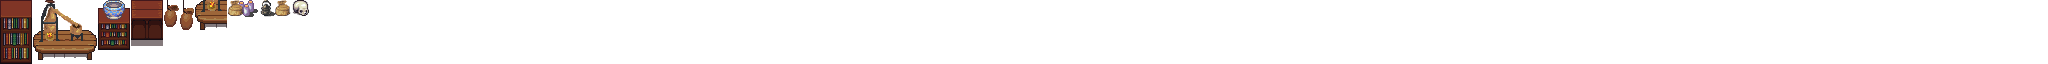
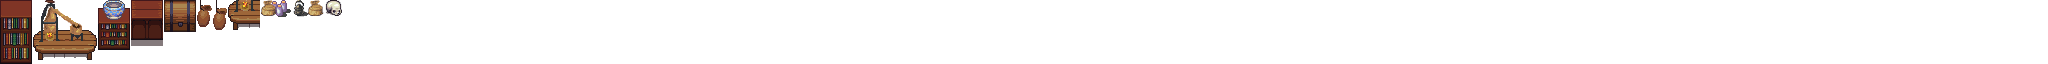
Sync from private repo

Changed region(s): [[0.0625, 0.0, 0.1875, 0.5]]

diff --git a/client/tests/e2e/gear.spec.js b/client/tests/e2e/gear.spec.js
@@ -43,7 +43,27 @@ async function intoShop(page, room, keeper) {
         const gs = window.__PHASER_GAME.scene.getScene('GameScene');
         gs.scene.get('UIScene').talkTo(gs.town.folk.find(f => f.plan.id === keeper));
     }, keeper);
+    await talkThrough(page, 'yes');
     await expect(page.locator('.gear-panel--shop')).toBeVisible();
+}
+
+/** Hear someone out, answering their question `answer`; returns everything they said. */
+async function talkThrough(page, answer) {
+    const said = [];
+    for (let i = 0; i < 40; i++) {
+        const state = await page.evaluate((answer) => {
+            const d = window.__PHASER_GAME.scene.getScene('UIScene').dialogue;
+            if (!d.visible) return null;
+            const p = d.pages[d.page];
+            if (p.ask && !p.answer && !d._typing) d.choose(answer);
+            else d.advance();
+            return p.text;
+        }, answer);
+        if (state === null) break;
+        if (said.at(-1) !== state) said.push(state);
+        await page.waitForTimeout(60);
+    }
+    return said;
 }
 
 const inv = (page) => page.evaluate(() => {
@@ -201,9 +221,104 @@ test.describe('Gear', () => {
         await expect.poll(() => page.evaluate(() => window.__PHASER_GAME.scene.getScene('UIScene').inventory.equipped.weapon), { timeout: 30000 }).toBe('spear');
         const after = await page.evaluate(() => window.__PHASER_GAME.scene.getScene('UIScene').inventory.stats);
         expect(after.attack).toBe(7 + Math.floor(after.attributes.str / 4));
+        // A shield then: the spear takes both hands, and you're told so
+        await page.evaluate(async () => {
+            const inv = window.__PHASER_GAME.scene.getScene('UIScene').inventory;
+            inv.buy('wooden-shield');
+        });
+        await page.locator('.gear-close').click();
+        await page.evaluate(() => window.__PHASER_GAME.scene.getScene('UIScene').bottomControls.switchTab('items'));
+        await page.locator('.gear-row[data-item="wooden-shield"]').click();
+        await page.locator('.gear-detail .gear-btn--go').click();
+        await expect(page.locator('.gear-notice')).toHaveText("Wearing: Wooden shield. Your spear takes both hands, so it's in your bag.", { timeout: 30000 });
+        expect(await page.evaluate(() => window.__PHASER_GAME.scene.getScene('UIScene').inventory.equipped.weapon)).toBeUndefined();
+        const shielded = await page.evaluate(() => window.__PHASER_GAME.scene.getScene('UIScene').inventory.stats);
         await page.locator('.gear-close').click();
         await page.evaluate(() => window.__PHASER_GAME.scene.getScene('UIScene').bottomControls.switchTab('stats'));
-        await expect(page.locator('.gear-power-tile[data-power="attack"] .gear-power-value')).toHaveText(String(after.attack));
+        await expect(page.locator('.gear-power-tile[data-power="attack"] .gear-power-value')).toHaveText(String(shielded.attack));
+        expect(shielded.defence).toBe(after.defence + 1);
+    });
+
+    test("a robed cleric with a spear stays in sight when they attack (robes can't thrust)", async ({ page }) => {
+        test.setTimeout(150000);
+        await page.goto('/');
+        await page.waitForFunction(() => {
+            const s = window.__PHASER_GAME?.scene.getScene('CreateScene');
+            return s?.figure?.visible && !s._inFlight;
+        }, null, { timeout: 60000 });
+        // A human woman cleric: her robe has no thrust frames
+        await page.evaluate(() => {
+            const s = window.__PHASER_GAME.scene.getScene('CreateScene');
+            s._changeIdentity(() => { s.state.pickBodyType('female'); s.state.pickKind('human'); s.state.pickClass('cleric'); });
+        });
+        await page.waitForFunction(() => {
+            const s = window.__PHASER_GAME.scene.getScene('CreateScene');
+            return !s._inFlight && s.state.current('character_class') === 'cleric';
+        }, null, { timeout: 60000 });
+        await page.locator('#cc-play').click();
+        await page.waitForFunction(() => window.__PHASER_GAME.scene.getScene('UIScene')?.inventory, null, { timeout: 30000 });
+        await page.evaluate(async () => {
+            const inv = window.__PHASER_GAME.scene.getScene('UIScene').inventory;
+            inv.buy('spear');
+            await inv.equip('spear');
+        });
+        await page.waitForFunction(() => window.__PHASER_GAME.scene.getScene('GameScene').localPlayer.characterData.selections.some(l => l.item === 'weapon_polearm_spear')
+            && window.__PHASER_GAME.scene.getScene('GameScene').localPlayer.sprite.spriteMeta, null, { timeout: 30000 });
+        expect(await page.evaluate(() => window.__PHASER_GAME.scene.getScene('GameScene').localPlayer.characterData.selections.some(l => l.item === 'torso_clothes_robe'))).toBe(true);
+        await page.waitForTimeout(1500);
+        await page.evaluate(() => window.__PHASER_GAME.scene.getScene('UIScene').handleAttack());
+        // Mid-attack, the frame she's drawn with has her in it
+        const seen = [];
+        for (let i = 0; i < 4; i++) {
+            await page.waitForTimeout(80);
+            seen.push(await page.evaluate(() => {
+                const a = window.__PHASER_GAME.scene.getScene('GameScene').localPlayer.sprite.getActiveSprite();
+                const f = a.frame, img = f.source.image;
+                const cv = document.createElement('canvas');
+                cv.width = f.cutWidth; cv.height = f.cutHeight;
+                const ctx = cv.getContext('2d');
+                ctx.drawImage(img, f.cutX, f.cutY, f.cutWidth, f.cutHeight, 0, 0, f.cutWidth, f.cutHeight);
+                const d = ctx.getImageData(0, 0, f.cutWidth, f.cutHeight).data;
+                let n = 0;
+                for (let k = 3; k < d.length; k += 4) if (d[k] > 0) n++;
+                return { anim: a.anims.currentAnim?.key.split('_').slice(-2, -1)[0], visible: a.visible, pixels: n };
+            }));
+        }
+        for (const s of seen) expect(s.pixels, JSON.stringify(seen)).toBeGreaterThan(200);
+        expect(seen.some(s => s.anim !== 'idle'), JSON.stringify(seen)).toBe(true);      // and she does attack
+    });
+
+    test('a shopkeeper has their say and asks first: No leaves you be, Yes opens the shop', async ({ page }) => {
+        test.setTimeout(120000);
+        await enterWorld(page);
+        await page.waitForFunction(() => window.__PHASER_GAME.scene.getScene('UIScene').inventory, null, { timeout: 20000 });
+        await page.evaluate(async () => {
+            const gs = window.__PHASER_GAME.scene.getScene('GameScene');
+            gs._townPlace = { name: 'Riverhold', x: 6320, y: 11116 };
+            await gs._loadTown('riverhold-armour');
+            await gs.changeMap('riverhold-armour', gs.cache.json.get('town-riverhold-armour').arrive, 'up');
+        });
+        await expect.poll(() => page.evaluate(() => !!window.__PHASER_GAME.scene.getScene('GameScene').town?.folk.find(f => f.plan.id === 'armourer')),
+            { timeout: 20000 }).toBe(true);
+        const talk = () => page.evaluate(() => {
+            const gs = window.__PHASER_GAME.scene.getScene('GameScene');
+            const ui = gs.scene.get('UIScene');
+            ui._lastTalk = null;
+            ui.talkTo(gs.town.folk.find(f => f.plan.id === 'armourer'));
+        });
+        await talk();
+        await expect.poll(() => page.evaluate(() => window.__PHASER_GAME.scene.getScene('UIScene').dialogue.visible)).toBe(true);
+        await expect(page.locator('.gear-panel')).toHaveCount(0);
+        const said = await talkThrough(page, 'no');
+        expect(said[0]).toContain('Mail, plate');
+        expect(said).toContain('Shall I show you what fits?');
+        expect(said.at(-1)).toContain('chasing you');
+        await expect(page.locator('.gear-panel--shop')).toHaveCount(0);
+        // Ask again (they ask every time), and this time yes
+        await talk();
+        await talkThrough(page, 'yes');
+        await expect(page.locator('.gear-panel--shop')).toBeVisible();
+        await expect(page.locator('.gear-says')).toHaveText("Arms up. Let's see what you're made of.");
     });
 
     test('another player sees you cast a spell', async ({ browser }) => {

diff --git a/client/src/creator/StageEffects.js b/client/src/creator/StageEffects.js
@@ -1,14 +1,14 @@
 // Particles and little flourishes for the creator stage and the world: dust,
 // impacts that match what was struck (wood splinters, metal sparks, spell
 // glints; skeletons just rattle), coins that bounce and settle, damage numbers,
-// arrows and magic bolts, fireflies, and the treasure chest. Particles are small
+// arrows and magic bolts, fireflies, and the treasure chest (the LPC base set's). Particles are small
 // hand-drawn pixel sprites in the DawnBringer-32 palette the UI uses.
 
 import { audio } from '../audio/audio.js';
 
 const SPARK = 'cc-spark';
-const CHEST_CLOSED = 'cc-chest-closed';
-const CHEST_OPEN = 'cc-chest-open';
+const CHESTS = 'cc-chests';                  // 2 columns of chests; rows: shut, ajar, open
+const CHEST_FRAMES = { shut: 0, ajar: 2, open: 4 };
 
 export class StageEffects {
     /**
@@ -192,7 +192,7 @@ export class StageEffects {
     /** Drop a chest at (x, y), pop it open, burst coins. Resolves when open. */
     async chest(x, y) {
         const s = this.scene;
-        const chest = s.add.image(x, y - 90, CHEST_CLOSED).setScale(2).setOrigin(0.5, 1).setDepth(4);
+        const chest = s.add.image(x, y - 90, CHESTS, CHEST_FRAMES.shut).setScale(1.5).setOrigin(0.5, 1).setDepth(4);
         this._chest = chest;
         // Thud when it first touches down (Bounce.easeOut lands at ~36% of the tween)
         s.time.delayedCall(150, () => audio.play('chest_drop'));
@@ -202,7 +202,9 @@ export class StageEffects {
         await delay(s, 220);
         audio.play('chest_open');
         audio.play('coins');
-        chest.setTexture(CHEST_OPEN);
+        chest.setFrame(CHEST_FRAMES.ajar);
+        await delay(s, 70);
+        chest.setFrame(CHEST_FRAMES.open);
         this.coinBurst(x, y - 22, y);
         this.stars.explode(12, x, y - 22);
         const glow = s.add.ellipse(x, y - 20, 34, 14, 0xfbf236, 0.6).setDepth(3).setBlendMode('ADD');
@@ -264,7 +266,7 @@ export function tween(scene, config) {
     return new Promise(resolve => scene.tweens.add({ ...config, onComplete: resolve }));
 }
 
-/** 2×2 spark, and a pixel-art treasure chest (closed/open) in the UI palette. */
+/** A 2×2 spark. */
 function makeTextures(scene) {
     if (!scene.textures.exists(SPARK)) {
         const g = scene.make.graphics({ x: 0, y: 0 }, false);
@@ -272,37 +274,6 @@ function makeTextures(scene) {
         g.generateTexture(SPARK, 2, 2);
         g.destroy();
     }
-    if (scene.textures.exists(CHEST_CLOSED)) return;
-
-    const INK = 0x222034, WOOD = 0x8f563b, WOOD_DK = 0x663931, GOLD = 0xdad45e, GOLD_HI = 0xfbf236, DARK = 0x45283c;
-    const draw = (open) => {
-        const g = scene.make.graphics({ x: 0, y: 0 }, false);
-        const W = 22, H = 20;
-        // body
-        g.fillStyle(INK).fillRect(1, 9, 20, 11);
-        g.fillStyle(WOOD).fillRect(2, 10, 18, 9);
-        g.fillStyle(WOOD_DK).fillRect(2, 15, 18, 1);
-        g.fillStyle(GOLD).fillRect(5, 10, 2, 9).fillRect(15, 10, 2, 9);
-        if (open) {
-            // raised lid, glowing inside
-            g.fillStyle(INK).fillRect(1, 1, 20, 6);
-            g.fillStyle(WOOD).fillRect(2, 2, 18, 4);
-            g.fillStyle(GOLD).fillRect(5, 2, 2, 4).fillRect(15, 2, 2, 4);
-            g.fillStyle(DARK).fillRect(2, 7, 18, 3);
-            g.fillStyle(GOLD_HI).fillRect(4, 8, 14, 2);
-        } else {
-            g.fillStyle(INK).fillRect(1, 4, 20, 6);
-            g.fillStyle(WOOD_DK).fillRect(2, 5, 18, 4);
-            g.fillStyle(GOLD).fillRect(5, 5, 2, 4).fillRect(15, 5, 2, 4);
-            // lock
-            g.fillStyle(INK).fillRect(9, 8, 4, 5);
-            g.fillStyle(GOLD_HI).fillRect(10, 9, 2, 3);
-        }
-        g.generateTexture(open ? CHEST_OPEN : CHEST_CLOSED, W, H);
-        g.destroy();
-    };
-    draw(false);
-    draw(true);
 }
 
 // Hand-drawn pixel particles, one character per pixel, in the UI's palette.

diff --git a/client/src/scenes/UIScene.js b/client/src/scenes/UIScene.js
@@ -36,6 +36,12 @@ export class UIScene extends Scene {
         this.dialogue.onClose = (who) => {
             this._lastTalk = who;
             this.bottomControls.container.setVisible(true);
+            // A shopkeeper you said yes to: on to their wares
+            if (who && who === this._toShop) this._openShop(who);
+            this._toShop = null;
+        };
+        this.dialogue.onChoice = (who, answer) => {
+            this._toShop = answer === 'yes' && this._shopOf(who) ? who : null;
         };
 
         this._setupKeyboard();
@@ -78,6 +84,22 @@ export class UIScene extends Scene {
         else if (key === 'items') this.gear.openItems();
         else if (key === 'stats') this.gear.openStats();
         else this.gear.close();
+    }
+
+    /** Their shop over the map, with their portrait and what they said yes with. */
+    _openShop(folk) {
+        const shop = this._shopOf(folk);
+        if (!shop || !this.gear) return;
+        for (const k in this.bottomControls.movementKeys) this.bottomControls.movementKeys[k] = false;
+        const sid = folk.sprite.characterData?.id;
+        const listed = new Set(this.cache.json.get('portraits') || []);
+        const says = folk.plan.ask?.yes?.at(-1) || [].concat(folk.plan.says || '')[0];
+        this.gear.openShop(shop, {
+            name: (folk.name || '').split(' ')[0],
+            role: folk.plan.role,
+            says,
+            portrait: listed.has(sid) ? portraitUrl(sid) : null,
+        });
     }
 
     /** A shopkeeper at their counter: their shop, if they keep one here. */
@@ -227,20 +249,8 @@ export class UIScene extends Scene {
     /** Story mode with someone you walked into (unless you've only just finished talking). */
     talkTo(folk) {
         if (this.dialogue.visible || this.enterPrompt.visible || this.gear?.visible || folk === this._lastTalk) return;
-        const shop = this._shopOf(folk);
-        if (shop) {
-            this._lastTalk = folk;
-            for (const k in this.bottomControls.movementKeys) this.bottomControls.movementKeys[k] = false;
-            const sid = folk.sprite.characterData?.id;
-            const listed = new Set(this.cache.json.get('portraits') || []);
-            this.gear.openShop(shop, {
-                name: (folk.name || '').split(' ')[0],
-                role: folk.plan.role,
-                says: folk.plan.says,
-                portrait: listed.has(sid) ? portraitUrl(sid) : null,
-            });
-            return;
-        }
+        // A shopkeeper asks every time whether you'd like to see their wares
+        if (this._shopOf(folk)) this.dialogue.answers.delete(folk.plan.id);
         this.bottomControls.container.setVisible(false);     // the story box takes their place
         for (const k in this.bottomControls.movementKeys) this.bottomControls.movementKeys[k] = false;
         this.dialogue.open(folk);

diff --git a/client/src/inventory/Inventory.js b/client/src/inventory/Inventory.js
@@ -96,25 +96,27 @@ export class Inventory {
 
     /**
      * Wear `id` from the bag in its slot (what was there goes back in the bag;
-     * a two-handed weapon puts the shield away, and a shield a two-handed weapon).
+     * a two-handed weapon puts the shield away, and a shield a two-handed weapon:
+     * that one comes back as `bothHands`).
      */
     equip(id) {
         const item = this.item(id);
         if (!item || !this.bag.includes(id)) return Promise.resolve({ ok: false, error: 'not-carried' });
         const equipped = { ...this.equipped, [item.slot]: id };
         const putAway = [this.equipped[item.slot]];
+        let bothHands = null;      // what had to go for want of a free hand
         if (item.twoHanded && equipped.shield) {
-            putAway.push(equipped.shield);
+            bothHands = equipped.shield;
             delete equipped.shield;
         }
         if (item.slot === 'shield' && this.item(equipped.weapon)?.twoHanded) {
-            putAway.push(equipped.weapon);
+            bothHands = equipped.weapon;
             delete equipped.weapon;
         }
         const bag = [...this.bag];
         bag.splice(bag.indexOf(id), 1);
-        bag.push(...putAway.filter(Boolean));
-        return this._wear(equipped, bag);
+        bag.push(...[...putAway, bothHands].filter(Boolean));
+        return this._wear(equipped, bag).then(res => (res?.ok && bothHands ? { ...res, bothHands } : res));
     }
 
     /** Take off what's in `slot`, into the bag. */

diff --git a/client/src/sprites/CompositeCharacter.js b/client/src/sprites/CompositeCharacter.js
@@ -6,6 +6,9 @@ import {
     resolveAnimationKey
 } from './AnimationFactory.js';
 
+// Attacks, best first for one that can't be shown (spellcast is never blanked)
+const ATTACKS = ['slash', 'thrust', 'shoot', 'halfslash', 'backslash', 'spellcast'];
+
 export class CompositeCharacter extends Phaser.GameObjects.Container {
     constructor(scene, x, y, characterData) {
         super(scene, x, y);
@@ -137,7 +140,14 @@ export class CompositeCharacter extends Phaser.GameObjects.Container {
 
         const dir = direction || this.currentDirection || 'down';
 
-        const result = resolveAnimationKey(this.scene, this.animationKey, animName, dir, this.spriteMeta);
+        let result = resolveAnimationKey(this.scene, this.animationKey, animName, dir, this.spriteMeta);
+        // An attack their clothes can't make (a robe has no thrust) is blank on
+        // their sheet: they make one they can instead, rather than vanish
+        const blanked = this.spriteMeta?.custom_animations?.blanked_animations || [];
+        if (result && !result.oversized && blanked.includes(animName) && ATTACKS.includes(animName)) {
+            const instead = ATTACKS.find(a => !blanked.includes(a));
+            result = instead && resolveAnimationKey(this.scene, this.animationKey, instead, dir, this.spriteMeta);
+        }
         if (!result) return;
 
         if (result.oversized) {

diff --git a/client/src/ui/gear/GearScreen.js b/client/src/ui/gear/GearScreen.js
@@ -310,6 +310,12 @@ export class GearScreen {
         this.render();
         const res = await this.inventory.equip(id);
         this.notice = res.ok ? `Wearing: ${this.inventory.item(id).name}.` : SAY[res.error] || SAY.offline;
+        if (res.bothHands) {
+            const item = this.inventory.item(id), other = this.inventory.item(res.bothHands);
+            this.notice += item.twoHanded
+                ? ` It takes both hands, so your ${other.name.toLowerCase()} is in your bag.`
+                : ` Your ${other.name.toLowerCase()} takes both hands, so it's in your bag.`;
+        }
         this.picking = null;
         if (res.ok) audio.play('reveal', { volume: 0.6, drift: 0 });
         this.render();

diff --git a/client/src/scenes/PreloadScene.js b/client/src/scenes/PreloadScene.js
@@ -76,6 +76,8 @@ export class PreloadScene extends Scene {
 
         // Leather tile for the HUD panels (same as the character creator's)
         this.load.image('ui-leather', '/ui/creator/art/leather.png');
+        // The LPC base set's treasure chests (two kinds: shut, ajar, open) for the creator's starter kit
+        this.load.spritesheet('cc-chests', '/ui/chests.png', { frameWidth: 32, frameHeight: 32 });
         
         // The overworld: tiles, collision, water and the minimap
         preloadOverworld(this.load);

diff --git a/README.md b/README.md
@@ -75,7 +75,7 @@ Every session opens in a character creator built for one-thumb play on a phone:
 - Random heroes get natural skin tones; fur, lavender and other race colors are yours to choose in **Customize look**, along with race kind (e.g. Cat, Fox, Wolf, Bunny), hair style, hair color and outfit colors
 - A live preview walks your hero through the town and shows off only the moves their gear fully supports; rotate them to see every side
 - Between walks, your hero spars a skeleton, goblin or orc with their class's real attacks: sword swings, arrows, magic bolts. Hits match what was struck (skeletons rattle, arrows throw splinters and a drifting feather, shields spark, spells scatter glints), and the winnings spill out as spinning coins that bounce and settle (just for show: sparring wins no real gold)
-- Each class starts with a humble kit (e.g. a warrior gets legion armor, an arming sword and a wooden shield), revealed from a treasure chest when you press **Play**
+- Each class starts with a humble kit (e.g. a warrior gets legion armor, an arming sword and a wooden shield), revealed from a treasure chest (the classic LPC chest) when you press **Play**
 - **Play** is always one tap away
 
 Other races and classes are reserved for NPCs and enemies.
@@ -118,7 +118,7 @@ Real-time multiplayer via Socket.io. Players share one overworld, built from LPC
   - The town watch: twelve guards in one uniform (chainmail, a Norman helm, a spear and a tattered cloak; each with their own face) at the gate, round the square, at the healer's, the footbridge, the pier and the graveyard, three on patrol and one off duty at the inn
   - Story mode: walk into someone and the world waits while they speak, like a visual novel: their words, a line at a time, typed out in a box where the controls were, with their name, and above it, filling the screen, an anime-style painting of them where they stand, recoloured to match their sprite (AI-generated from their character data), or for anyone without one a crisp close-up of their own sprite. Space, Enter or a tap moves the story on; ◀ (or Backspace) goes back a line and LOG (or H) shows everything said so far; some ask you a question, answered Yes or No
   - Wren, an elf thief just inside Riverhold's gate, wants to get to Stonebridge but daren't travel the river road alone, and asks to come with you. She speaks: every line she says comes with a short voiced, animated clip of her saying it (AI-generated from her portrait), played over her painting as the line appears, and again if you go back to it
-  - Gold and gear: every hero sets out with a purse of 100 gold. Riverhold's Weaponsmith (dagger, iron sword, mace, spear, hunting bow, oak staff), Armourer (leather armour, chainmail, mail coif, iron helm, wooden and kite shields) and Apothecary (ember, frost, mending and spark crystals) sell at their counters: talk to the keeper and their shop opens, to buy or to sell back what you carry for about half its price, depending on your charisma. Equip shows your hero large on a lit stage (turn them round, tap them to see their weapon swing) with five slots (weapon, body, head, shield, crystal); whatever you put on, your sprite is redrawn wearing it, for you and everyone near you. Items shows your bag. A two-handed weapon puts your shield away. A crystal colours your spells, a ring and sparks of its colour that other players see too. Each piece shows what it adds to attack, defence or spell, against what you wear now. Gold, bag and gear are saved with your hero
+  - Gold and gear: every hero sets out with a purse of 100 gold. Riverhold's Weaponsmith (dagger, iron sword, mace, spear, hunting bow, oak staff), Armourer (leather armour, chainmail, mail coif, iron helm, wooden and kite shields) and Apothecary (ember, frost, mending and spark crystals) sell from behind their counters, with treasure chests at their backs: talk to the keeper, hear them out, and say yes when they ask if you'd like to see their wares, and their shop opens, to buy or to sell back what you carry for about half its price, depending on your charisma. Equip shows your hero large on a lit stage (turn them round, tap them to see their weapon swing) with five slots (weapon, body, head, shield, crystal); whatever you put on, your sprite is redrawn wearing it, for you and everyone near you. Items shows your bag. A two-handed weapon puts your shield away (and a shield a two-handed weapon), and you're told so. If your clothes can't make a weapon's move (a cleric's robe has no spear thrust), your hero attacks with a move they can make instead of vanishing. A crystal colours your spells, a ring and sparks of its colour that other players see too. Each piece shows what it adds to attack, defence or spell, against what you wear now. Gold, bag and gear are saved with your hero
   - Stats, in the style of Ultima III: level, hit points, magic points and experience; strength, dexterity, intelligence, wisdom and charisma, from your race (each race has its own strengths and how high each can grow) and your class; and the attack, defence and spell they come to with your gear on. Warriors and thieves have no magic points; mages cast from intelligence, clerics from wisdom, rangers from half their wisdom. Charisma gets you better prices: shopkeepers ask less and pay more for what you sell (and a hero with little charm pays a little more). Tap an attribute to see what it does
   - In a town or a room you see only the players who are there with you; walk out through the gate and you're back on the overworld
 - A galleon waits at anchor off the port: walk into it to board and it sails like a ship, turning toward where you steer, gathering speed slowly, coasting, riding the swell (it yaws, surges and pitches, so it never runs ruler-straight), with a V of foam behind it. Sail the sea to reach the islands and steer into land to step ashore; the ship waits where you leave it. Other players see your ship
